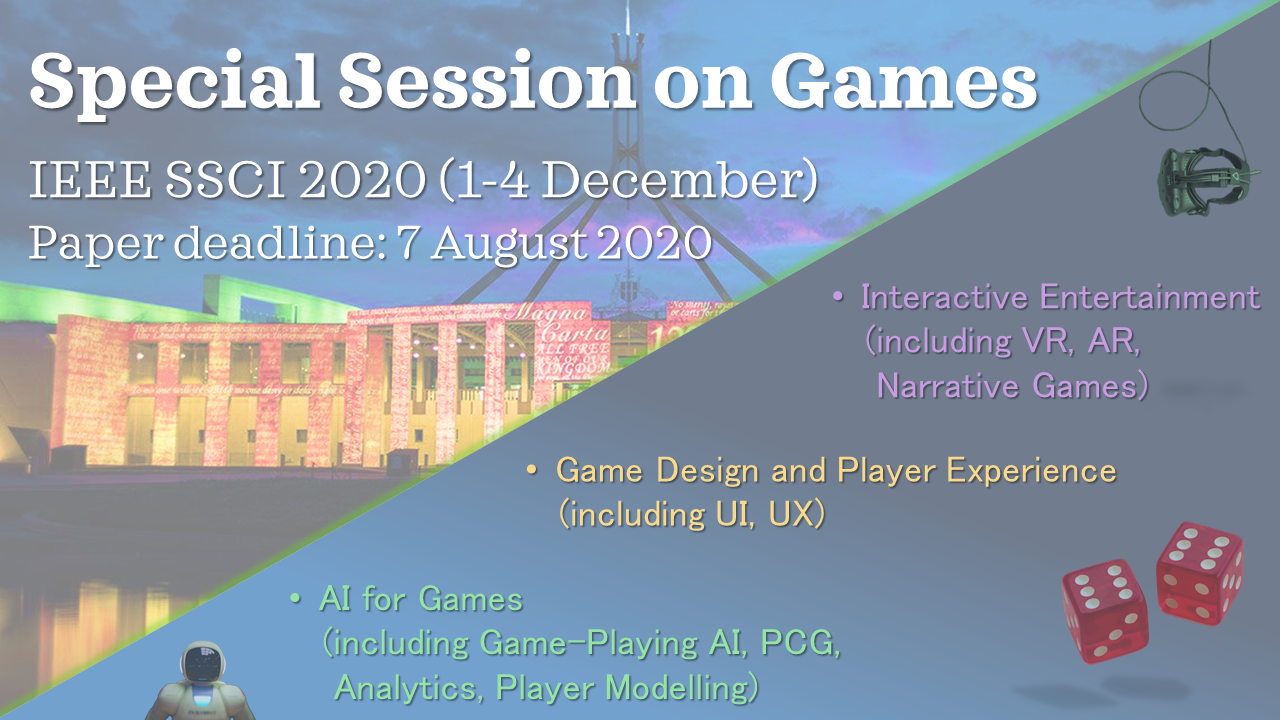
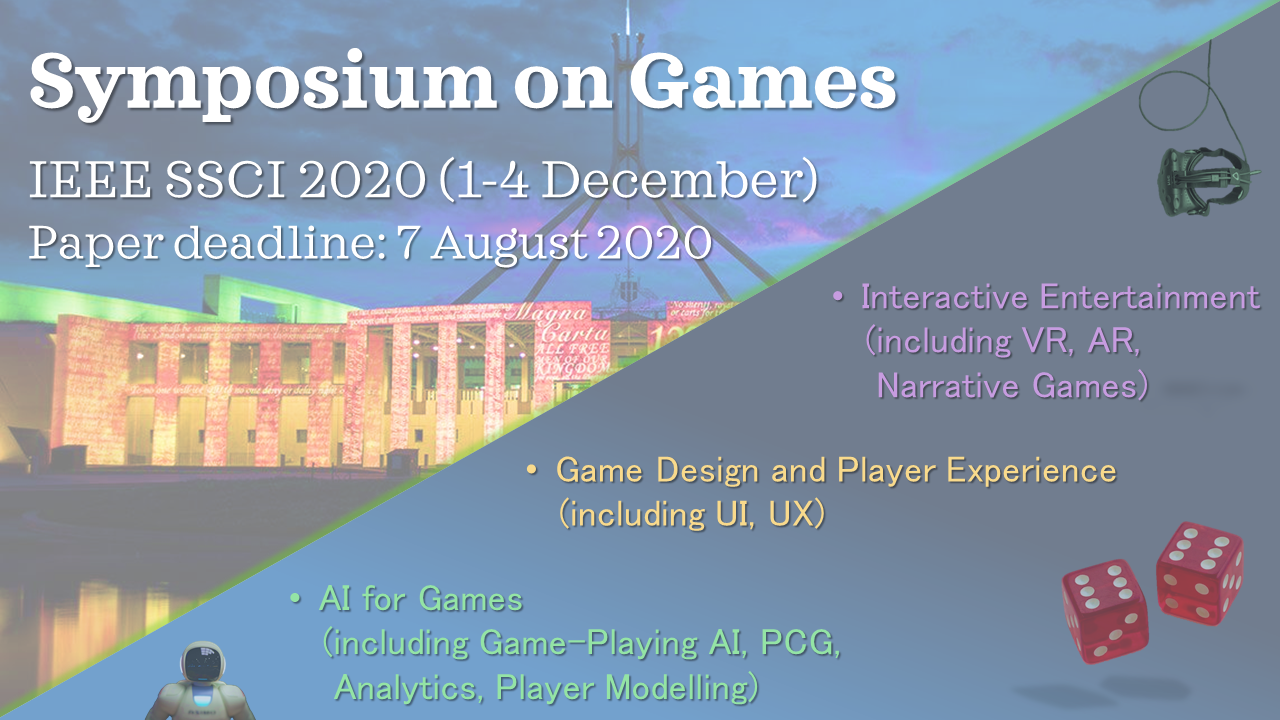
ssci games

Changed region(s): [[0.0625, 0.0611, 0.8125, 0.1833]]

diff --git a/page/zgames-ssci.html b/page/zgames-ssci.html
@@ -9,17 +9,17 @@ type: page
 <div class="page clearfix">
     <div class="left">
 		<div class="ssci-header">
-        <h1>Special Session on Games @ <a href="http://www.ieeessci2020.org/">IEEE SSCI 2020</a></h1>
+        <h1>Symposium on Games @ <a href="http://www.ieeessci2020.org/">IEEE SSCI 2020</a></h1>
 		<h3>1-4 December 2020, Canberra, Australia</h3>
 		</div>
         <hr>
 
-		<p>This special session is organized in association with the <a href="https://cis.ieee.org/">IEEE Computational Intelligence Society</a> (CIS) <a href="https://cis.ieee.org/technical-committees/games-technical-committee">Games Technical Committee</a> (GTC).</p>
+		<p>This symposium is organized in association with the <a href="https://cis.ieee.org/">IEEE Computational Intelligence Society</a> (CIS) <a href="https://cis.ieee.org/technical-committees/games-technical-committee">Games Technical Committee</a> (GTC).</p>
 
 		<br/><section id="aim">
 		<h1>Aim</h1>
 		
-		<p>Games are an ideal domain to study computational intelligence (CI) methods, as they provide affordable, competitive, dynamic, reproducible environments suitable for testing new search algorithms, pattern-based evaluation methods, or learning concepts. Games scale from simple problems for developing algorithms to incredibly hard problems for testing algorithms to the limit. They are also interesting to observe, fun to play, and very attractive to students. Additionally, there is great potential for CI methods to improve the design and development of both computer games as well as tabletop games, board games, and puzzles. This special session aims at gathering leaders and neophytes in games research, as well as practitioners in this field who research applications of computational intelligence methods to computer games.</p>
+		<p>Games are an ideal domain to study computational intelligence (CI) methods, as they provide affordable, competitive, dynamic, reproducible environments suitable for testing new search algorithms, pattern-based evaluation methods, or learning concepts. Games scale from simple problems for developing algorithms to incredibly hard problems for testing algorithms to the limit. They are also interesting to observe, fun to play, and very attractive to students. Additionally, there is great potential for CI methods to improve the design and development of both computer games as well as tabletop games, board games, and puzzles. This symposium aims at gathering leaders and neophytes in games research, as well as practitioners in this field who research applications of computational intelligence methods to computer games.</p>
 		</section>
 		
 		<br/><section id="scope">
@@ -46,6 +46,7 @@ type: page
 		</ul>
 		</section>
 		
+		<!--
 		<br/><section id="dates">
 		<h1>Key Dates</h1>
 		<table>
@@ -56,14 +57,14 @@ type: page
 		<tr><td>1st of December, 2020</td><td>Workshops and Tutorials</td></tr>
 		<tr><td>2-4 of December, 2020</td><td>Main Conference</td></tr>
 		</table>	
-		</section>
+		</section>-->
 		
 		<br/><br/>
 		
 		<section id="submission">
 		<h1>Submission</h1>
 		
-		<p>Instructions specific to the Special Session on Games TBC. Check out the IEEE SSCI call for papers and submission instructions <a href="http://www.ieeessci2020.org/callofpapers.html">here</a>.</p>
+		<p>Instructions specific to the Symposium on Games TBC. Check out the IEEE SSCI call for papers and submission instructions <a href="http://www.ieeessci2020.org/callofpapers.html">here</a>.</p>
 		</section>
 
 		<br/><br/>
@@ -112,7 +113,7 @@ type: page
                 <ul id="content-side" class="content-ul">
 					<li> <a href="#aim">Aim</a> </li>
 					<li> <a href="#scope">Scope</a> </li>
-					<li> <a href="#dates">Key Dates</a> </li>
+					<!--<li> <a href="#dates">Key Dates</a> </li>-->
 					<li> <a href="#submission">Submission Instructions</a> </li>
 					<li> <a href="#organizers">Organizers</a> </li>
                 </ul>
